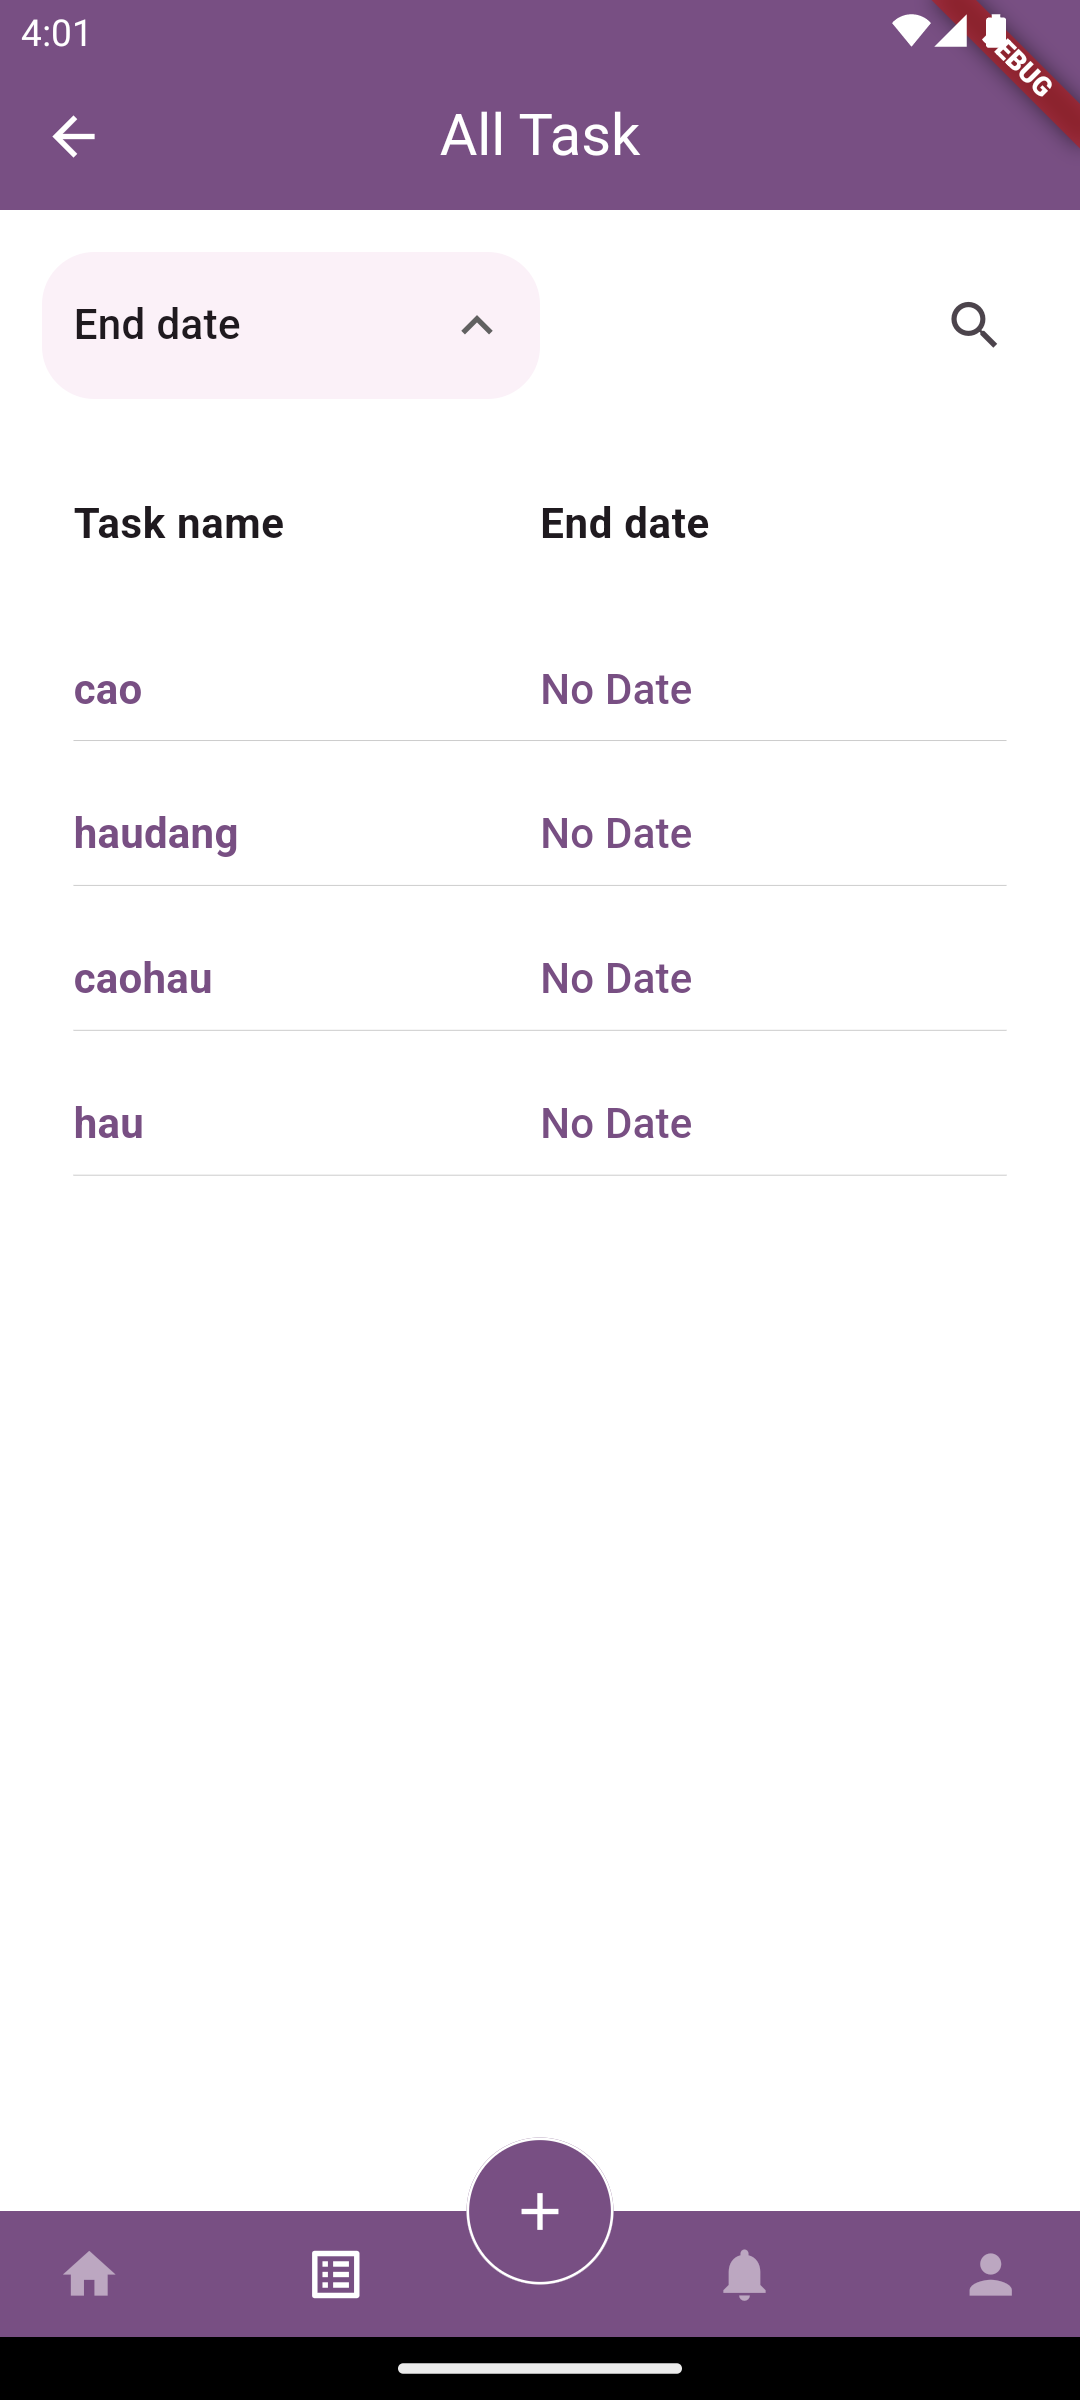
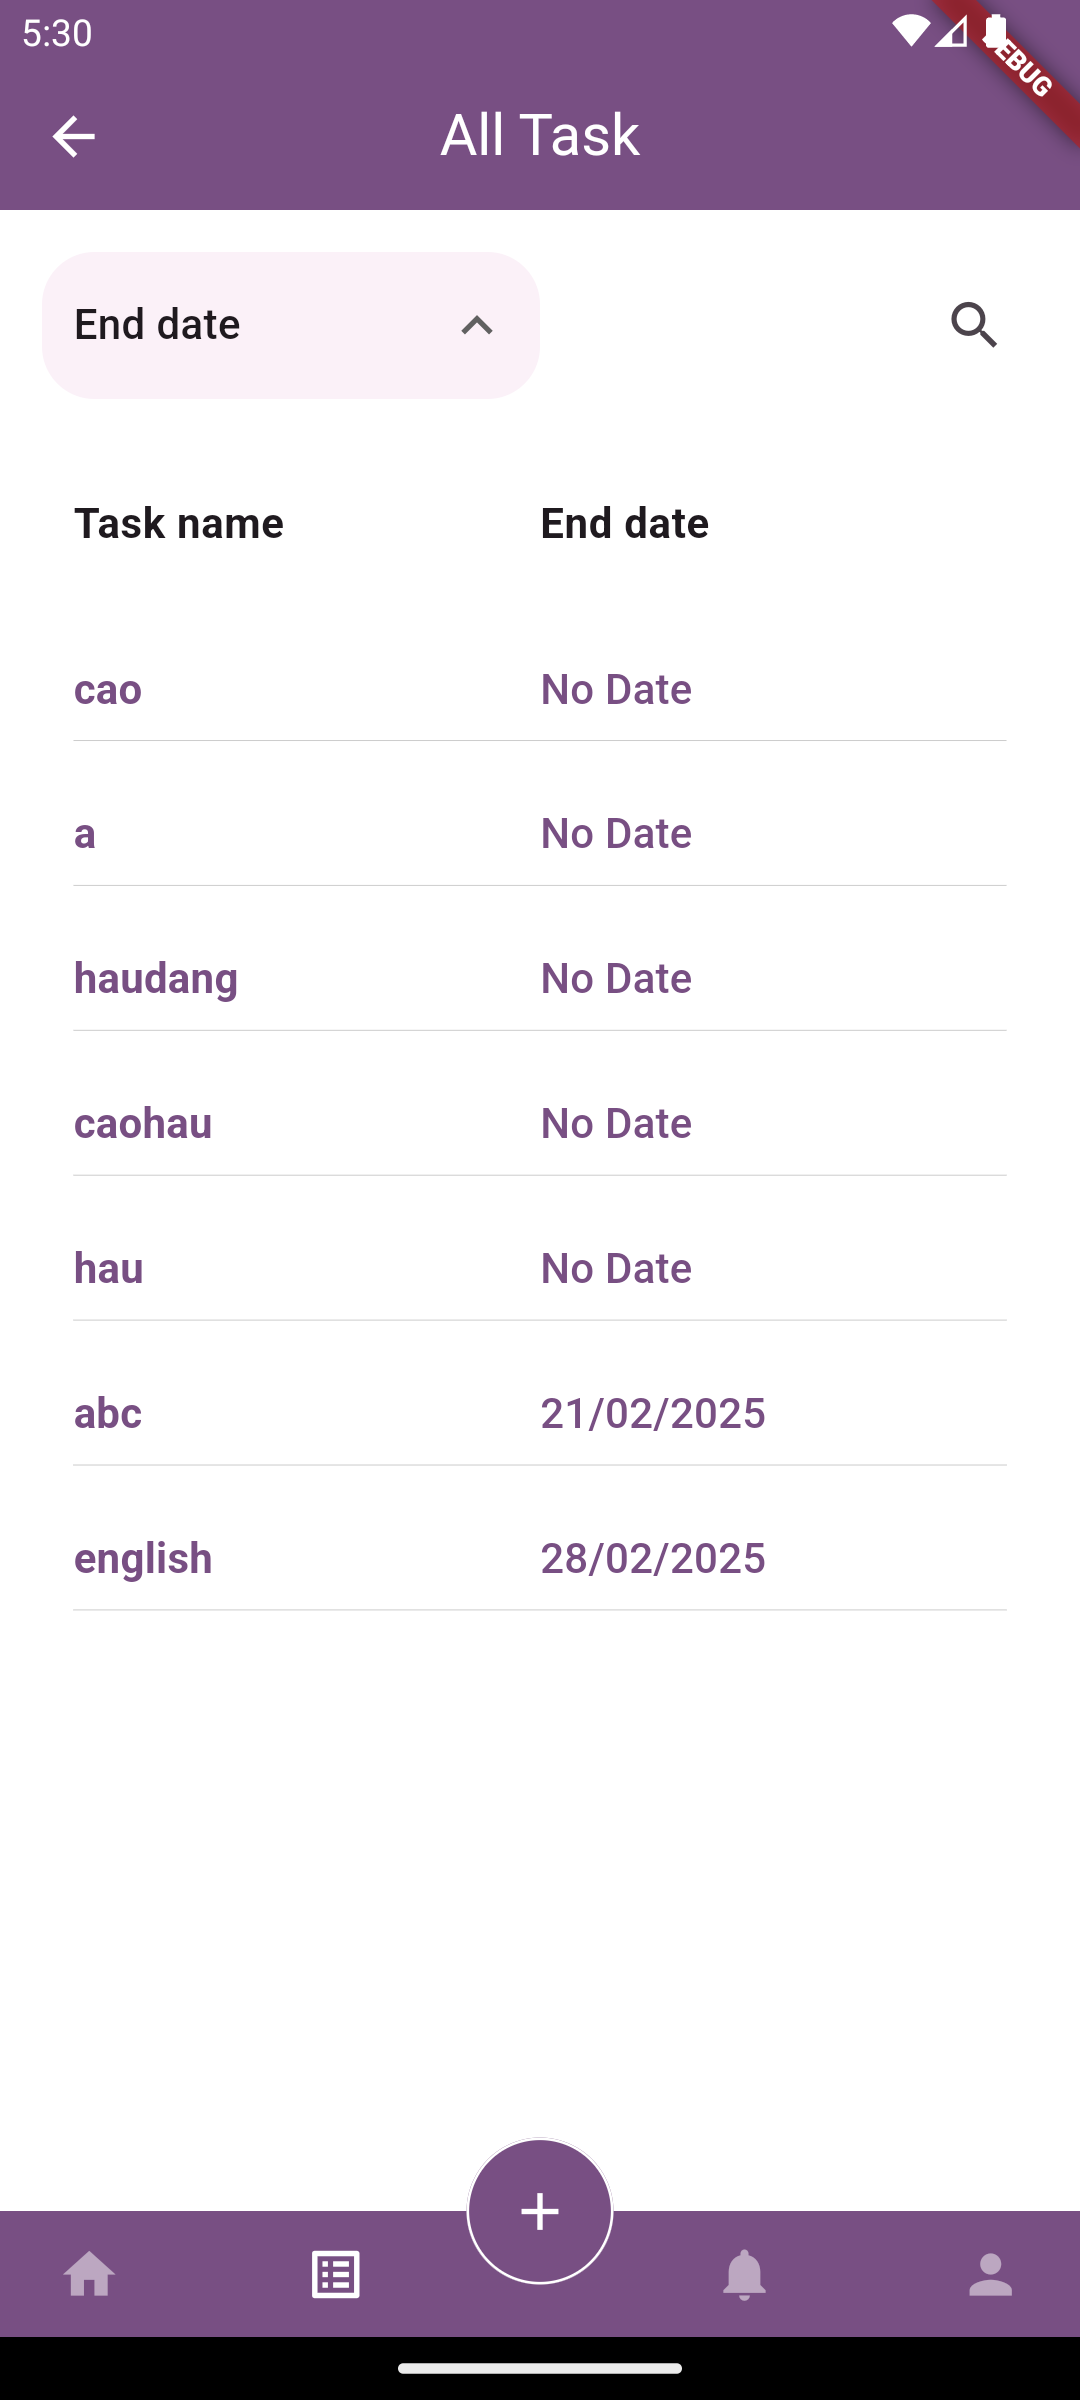
update readme

diff --git a/lib/widget/edit_table.dart b/lib/widget/edit_table.dart
@@ -216,12 +216,15 @@ class _EditTableState extends ConsumerState<EditTable> {
           .set(
         {
           "table_name": _entertableName,
-          "start_date": _enterStartDate,
-          "end_date": _enterEndDate,
-          "start_time": _enterStartTime,
-          "end_time": _enterEndTime,
+          "start_date": _enterStartDate == "No date" ? null : _enterStartDate,
+          "end_date": _enterEndDate == "No date" ? null : _enterEndDate,
+          "start_time": _enterStartTime == "No time" ? null : _enterStartTime,
+          "end_time": _enterEndTime == "No time" ? null : _enterEndTime,
           "create_at": DateTime.now(),
         },
+        SetOptions(
+          merge: true,
+        ),
       );
 // thêm hoạt động vào db
       // gửi thông báo cho toàn bộ user trong task

diff --git a/lib/widget/edit_task.dart b/lib/widget/edit_task.dart
@@ -108,12 +108,15 @@ class _EditTaskState extends ConsumerState<EditTask> {
         {
           "task_name": _enterTaskName,
           "visibility": _enterVisibility,
-          "start_date": _enterStartDate,
-          "end_date": _enterEndDate,
-          "start_time": _enterStartTime,
-          "end_time": _enterEndTime,
+          "start_date": _enterStartDate == "No date" ? null : _enterStartDate,
+          "end_date": _enterEndDate == "No date" ? null : _enterEndDate,
+          "start_time": _enterStartTime == "No time" ? null : _enterStartTime,
+          "end_time": _enterEndTime == "No time" ? null : _enterEndTime,
           "create_at": DateTime.now(),
         },
+        SetOptions(
+          merge: true,
+        ),
       );
 // thêm thông báo động vào db
       setState(

diff --git a/README.md b/README.md
@@ -2,18 +2,79 @@
 
 ## Overview
 
-<p>
-  Task Manager App là một dự án quản lí công việc cho một cá nhân hoặc một tổ
-  chức nhóm người. Giúp cho người dùng quản lí công việc một cách hiệu quả.
-</p>
+Task Manager App là một dự án quản lí công việc cho một cá nhân hoặc một tổ chức. Giúp cho người dùng quản lí công việc một cách hiệu quả.
+
+## Features
+
+- **Thêm task mới:** Dễ dàng thêm các task mới, với tiêu đề, ngày giờ bắt đầu và ngày giờ kết thúc.
+- **Sửa và xóa task:** Mỗi task có thể sửa và xóa thông tin task, thêm người dùng, sửa quyền người dùng một cách dễ dàng.
+- **Sắp xếp và tìm kiếm:** Sắp xếp các task theo ngày kết thúc, ngày bắt đầu, tên của task và chức năng tìm kiếm theo tên.
+- **Thông báo:** App có chức năng thông báo nội bộ trong app, không có thông báo trên ngoài màn hình app.
+- **Kết bạn và chat cơ bản:** App có chức năng kết bạn và chat với người khác (chức năng chat còn hạn chế chỉ chat được chữ).
+- **Một vài chức năng khác tích hợp từ firebase auth:** Quên mật khẩu, đăng nhập, đăng kí và sửa mật khẩu.
 
 ## Download App
 
-<a
-href="https://github.com/DangCaoHau2004/task_manager_app/releases/download/v1.0.0/app-release.apk"> <img src="https://playerzon.com/asset/download.png" width="200"/></a>
+<a href="https://github.com/DangCaoHau2004/task_manager_app/releases/download/v1.0.0/app-release.apk">
+  <img src="https://playerzon.com/asset/download.png" width="200"/>
+</a>
 
 ## Android Screenshots
 
-|                                                   HomePage                                                   |                                             Product Detail Page                                              |                                                  Cart Page                                                   |
-| :----------------------------------------------------------------------------------------------------------: | :----------------------------------------------------------------------------------------------------------: | :----------------------------------------------------------------------------------------------------------: |
-| ![](https://github.com/TheAlphamerc/flutter_ecommerce_app/blob/master/screenshots/screenshot_1.jpg?raw=true) | ![](https://github.com/TheAlphamerc/flutter_ecommerce_app/blob/master/screenshots/screenshot_2.jpg?raw=true) | ![](https://github.com/TheAlphamerc/flutter_ecommerce_app/blob/master/screenshots/screenshot_3.jpg?raw=true) |
+<div style="display: flex; justify-content: space-around; margin-top: 30px; flex-wrap: wrap; margin-bottom: 50px;">
+  <div style="text-align: center; margin: 10px;">
+    <h3>Home</h3>
+    <img src="https://github.com/DangCaoHau2004/task_manager_app/blob/master/screenshots/homepage.png?raw=true" alt="" style="height: 457px; width: 206px"/>
+  </div>
+  <div style="text-align: center; margin: 10px;">
+    <h3>Navbar Bottom Add</h3>
+    <img src="https://github.com/DangCaoHau2004/task_manager_app/blob/master/screenshots/homepage1.png?raw=true" alt="" style="height: 457px; width: 206px"/>
+  </div>
+  <div style="text-align: center; margin: 10px;">
+    <h3>Home Drawer</h3>
+    <img src="https://github.com/DangCaoHau2004/task_manager_app/blob/master/screenshots/homepage2.png?raw=true" alt="" style="height: 457px; width: 206px"/>
+  </div>
+  <div style="text-align: center; margin: 10px;">
+    <h3>List Task</h3>
+    <img src="https://github.com/DangCaoHau2004/task_manager_app/blob/master/screenshots/all_task.png?raw=true" alt="" style="height: 457px; width: 206px"/>
+  </div>
+   <div style="text-align: center; margin: 10px;">
+    <h3>Detail Task</h3>
+    <img src="https://github.com/DangCaoHau2004/task_manager_app/blob/master/screenshots/detail_task.png?raw=true" alt="" style="height: 457px; width: 206px"/>
+  </div>
+  <div style="text-align: center; margin: 10px;">
+    <h3>Notification</h3>
+    <img src="https://github.com/DangCaoHau2004/task_manager_app/blob/master/screenshots/notif.png?raw=true" alt="" style="height: 457px; width: 206px"/>
+  </div>
+  <div style="text-align: center; margin: 10px;">
+    <h3>Profile</h3>
+    <img src="https://github.com/DangCaoHau2004/task_manager_app/blob/master/screenshots/profile.png?raw=true" alt="" style="height: 457px; width: 206px"/>
+  </div>
+</div>
+
+## Getting Started
+
+### Yêu cầu:
+
+- Đảm bảo bạn đã cài đặt Flutter trên máy tính của mình. Nếu chưa, hãy làm theo [hướng dẫn cài đặt Flutter](https://flutter.dev/docs/get-started/install).
+- Clone repository về local.
+
+### Installation
+
+1. Mở terminal và di chuyển đến thư mục dự án.
+
+2. Chạy lệnh sau:
+
+<pre>
+<code>
+flutter pub get
+</code>
+</pre>
+
+Chạy ứng dụng trên trình giả lập hoặc thiết bị bằng lệnh sau:
+
+<pre>
+<code>
+flutter run
+</code>
+</pre>
